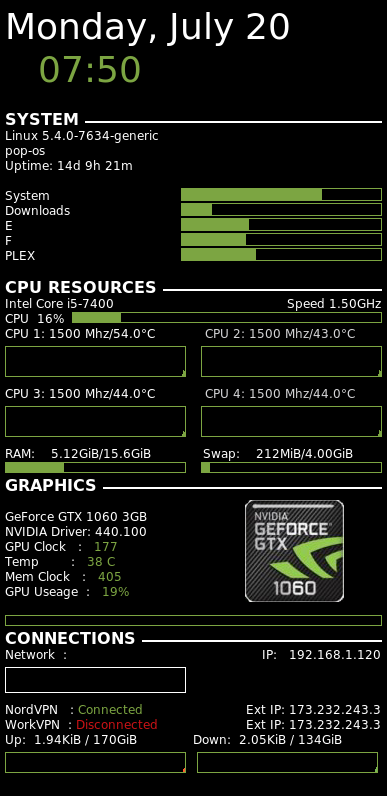
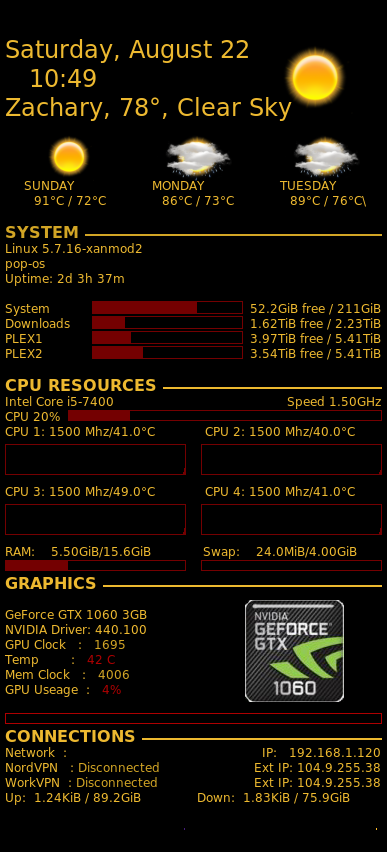
Added Weather and color pallette

Changed region(s): [[0.0, 0.0, 0.9922, 0.9648], [0.6512, 0.0905, 0.7442, 0.1508]]

diff --git a/weather.py b/weather.py
@@ -1,0 +1,119 @@
+# -*- coding: utf-8 -*-
+"""
+Returns formatted weather from yahoo data api
+"""
+
+__author__ = 'Eduardo Ciciliato'
+__email__ = 'eduardo.ciciliato@gmail.com'
+__license__ = 'GPL 2.0'
+__version__ = '1.0.0'
+
+import urllib2
+import urllib
+import json
+import sys
+import os
+
+from datetime import datetime
+from shutil import copyfile
+
+PATH_BASE = os.path.dirname(os.path.realpath(__file__))
+
+#Config defaults
+DEFAULT_LOCATION = None # Choose a default location
+DEFAULT_UNIT_CELSIUS = True
+CACHE_TIME = 1800 # In seconds (1800 = 30 minutes)
+
+
+def format_data(data, woeid, use_celsius):
+    """"
+    Returns a formatted title, weather condition and gif path
+    """
+    if use_celsius:
+        unit = 'C'
+    else:
+        unit = 'F'
+    title = 'Weather for ' + data['location']['city'] + " - " + data['location']['region']
+    condition = data['item']['condition']
+    cond = ' Temp: ' + condition['temp'] + unit + ' \n ' + condition['text']
+    image = 'gif/' + condition['code'] + '.gif'
+    # Copy one of the condition gif images to the base path of the script to be used by conky
+    copyfile(os.path.join(PATH_BASE, image), os.path.join(PATH_BASE, 'condition_'+woeid+'.gif'))
+    return title, cond, image
+
+
+def weather(woeid, cache_time, use_celsius):
+    """
+    Call yahoo api for weather data if no cache is available,
+    then returns the formatted data
+    """
+    celsius_arg = ''
+    intcelsius = 0
+    if use_celsius:
+        intcelsius = 1
+        celsius_arg = " and u='c'"
+    # Look for a cache file for your location and temperature type
+    if os.path.isfile(os.path.join(PATH_BASE, 'cache_'+woeid+'_'+str(intcelsius)+'.txt')):
+        with open(os.path.join(PATH_BASE, 'cache_'+woeid+'_'+str(intcelsius)+'.txt'), 'r') as cfile:
+            date, read_title, cond1, cond2 = cfile.read().splitlines()
+            now = datetime.utcnow()
+            fdate = datetime.strptime(date[:19], '%Y-%m-%d %H:%M:%S')
+            tdelta = now - fdate
+            if tdelta.seconds < cache_time:
+                return read_title, cond1 + '\n' + cond2
+
+    # If there is no cache file or it expired, get from yahoo
+    baseurl = "https://query.yahooapis.com/v1/public/yql?"
+    # The temperature unit is set to celsius using "u='c'" in the query
+    yql_query = "select * from weather.forecast where woeid="+woeid+celsius_arg
+    yql_url = baseurl + urllib.urlencode({'q':yql_query}) + "&format=json"
+    result = urllib2.urlopen(yql_url).read()
+    data = json.loads(result)
+    ftitle, fcond, fimage = format_data(data['query']['results']['channel'], woeid, use_celsius)
+
+    # Saves a new cache file for your location
+    with open(os.path.join(PATH_BASE, 'cache_'+woeid+'_'+str(intcelsius)+'.txt'), 'w+') as cfile:
+        cfile.write(str(datetime.utcnow())[:19]+'\n')
+        cfile.write(ftitle+'\n')
+        cfile.write(fcond+'\n')
+        cfile.write(fimage+'\n')
+    return ftitle, fcond
+
+def main():
+    """
+    Main function for showing the weather
+    """
+    location = None
+    if DEFAULT_LOCATION is not None:
+        location = str(DEFAULT_LOCATION)
+
+    cache = int(CACHE_TIME)
+    celsius = DEFAULT_UNIT_CELSIUS
+
+    if len(sys.argv) > 1:
+        location = sys.argv[1]
+    if len(sys.argv) > 2:
+        cache = int(sys.argv[2])
+    if len(sys.argv) > 3:
+        celsius = int(sys.argv[3])
+        if celsius == 1:
+            celsius = True
+        else:
+            celsius = False
+
+    if location is None:
+        raise Exception('No location was provided. Pass it as the first argument ' \
+                        'or edit the default location at line 13')
+
+    weather_title, weather_cond = weather(location, cache, celsius)
+    print weather_title
+    conds = weather_cond.split('\n')
+    print
+    for cond in conds:
+        print '\t  '+cond
+    # Remove this if you want
+    print
+    print 'powered by yahoo weather api'
+
+if __name__ == '__main__':
+    main()
